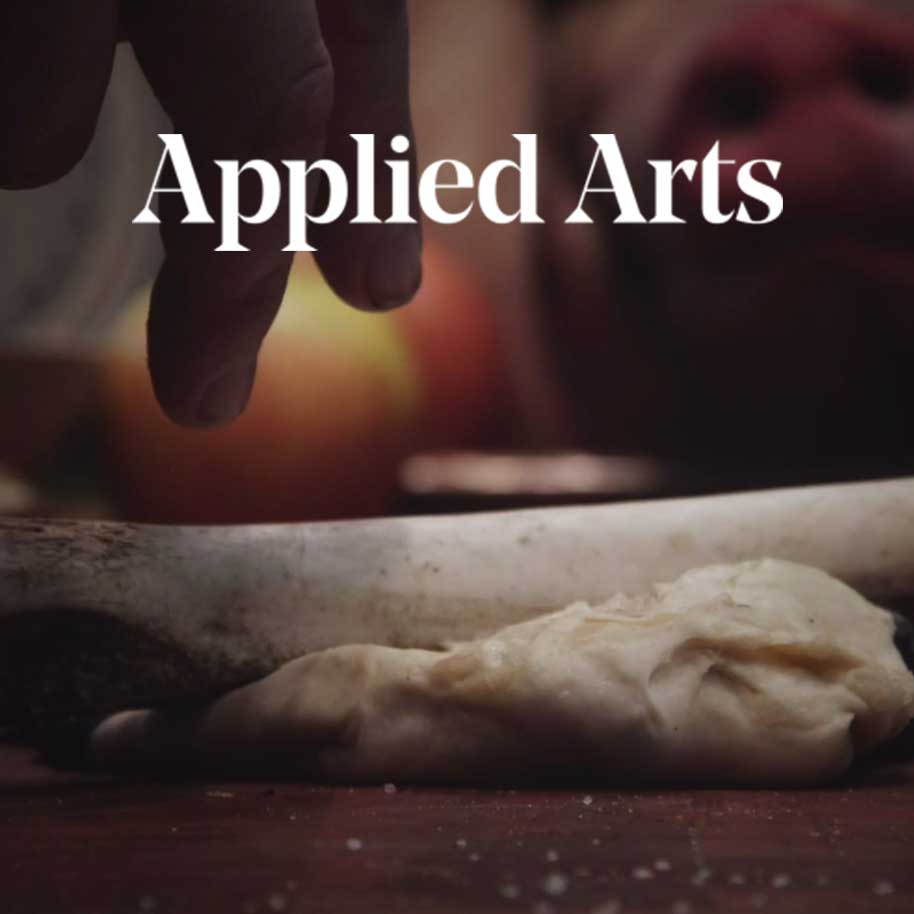
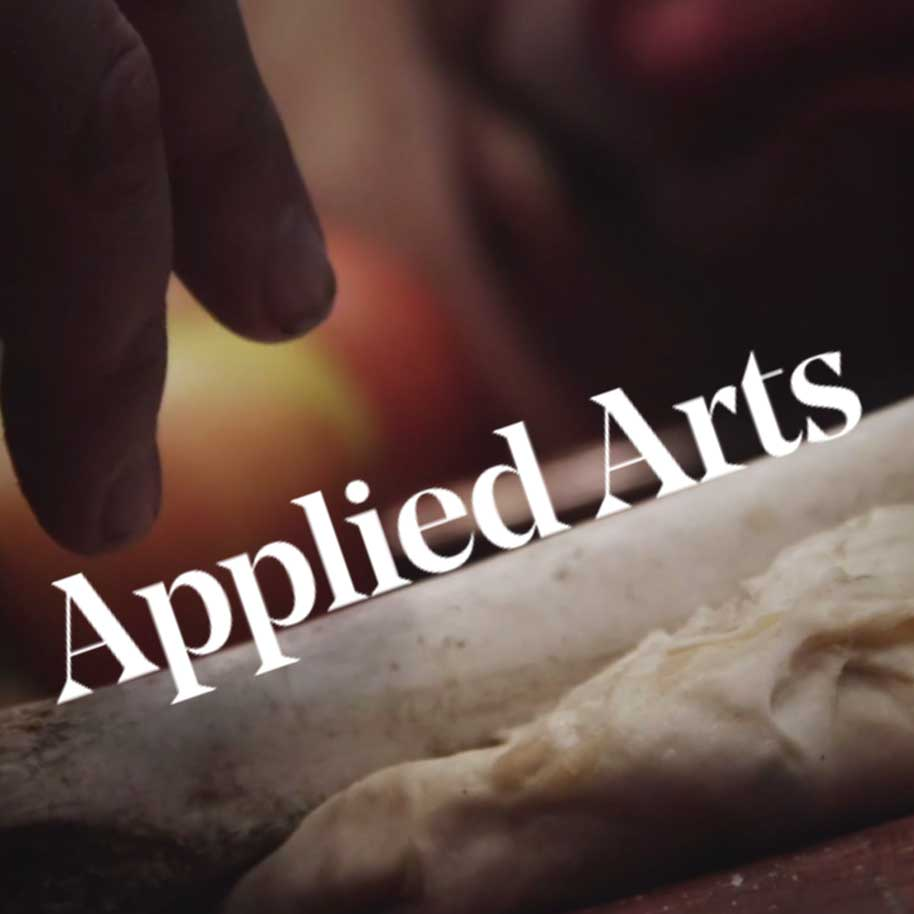
sizes of feature img/ hover state

diff --git a/css/main.css b/css/main.css
@@ -187,16 +187,17 @@ header a:hover, .nav-upper a:hover {
 	background-color: #a1a1a1;
 		background-color: #c4c4c4;
 	background-image: url(../images/cards/card-image-aa.jpg);
-	background-size: 100%;
+	background-size: 110%;
 	background-position: center;
-	transition: 1000ms ease;
+	transition: 1000ms;
 	opacity: 1;
 }
 
 .img-2-m:hover {
 	background-color: #000;
 		background-color: #000;
-		background-size: 110%;
+		background-position: bottom;
+
 
 }
 
